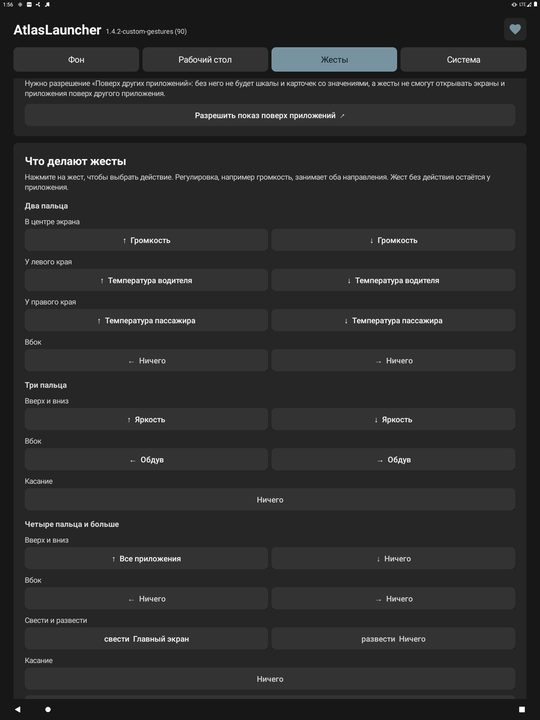
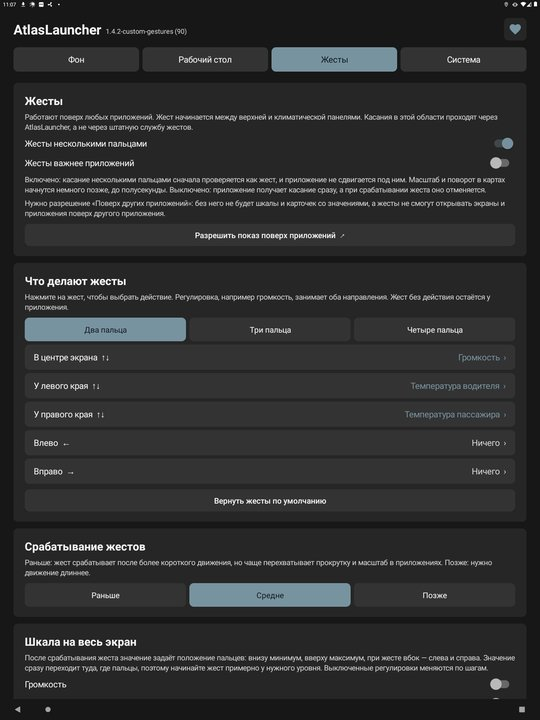
Show gesture settings by finger count as compact rows
A segmented switch picks two, three or four fingers and only their gestures are listed, one row per gesture with its action on the right. An adjustment holds both directions in a single row; one-off actions get a row per direction.

diff --git a/app/src/main/java/com/mmwtl/atlaslauncher/SettingsActivity.java b/app/src/main/java/com/mmwtl/atlaslauncher/SettingsActivity.java
@@ -107,6 +107,8 @@ public final class SettingsActivity extends ScaledActivity {
     private boolean editNight;
     private LinearLayout redirectState;
     private LinearLayout gestureRows;
+    // Index of the finger count shown in the gesture table: two, three, four.
+    private int gestureFingers;
     private Runnable connectivityChanged;
     /** The clock, volume or Wi-Fi/Bluetooth widget whose page is open. */
     private int widgetId;
@@ -423,45 +425,69 @@ public final class SettingsActivity extends ScaledActivity {
         return GestureMap.parse(prefs.getString(HomeActivity.GESTURES_MAP, null));
     }
 
-    /** Every gesture by finger count, as rows of one or two buttons with the current action. */
+    /** The gestures of the chosen finger count, a row each; an adjustment holds both directions in one row. */
     private void showGestureRows() {
         gestureRows.removeAllViews();
         GestureMap map = gestureMap();
-        gestureRows.addView(label("Два пальца"));
-        gestureRow(map, "В центре экрана", "↑", GestureMap.Gesture.TWO_CENTER_UP, "↓", GestureMap.Gesture.TWO_CENTER_DOWN);
-        gestureRow(map, "У левого края", "↑", GestureMap.Gesture.TWO_LEFT_UP, "↓", GestureMap.Gesture.TWO_LEFT_DOWN);
-        gestureRow(map, "У правого края", "↑", GestureMap.Gesture.TWO_RIGHT_UP, "↓", GestureMap.Gesture.TWO_RIGHT_DOWN);
-        gestureRow(map, "Вбок", "←", GestureMap.Gesture.TWO_SWIPE_LEFT, "→", GestureMap.Gesture.TWO_SWIPE_RIGHT);
-        gestureRows.addView(label("Три пальца"));
-        gestureRow(map, "Вверх и вниз", "↑", GestureMap.Gesture.THREE_UP, "↓", GestureMap.Gesture.THREE_DOWN);
-        gestureRow(map, "Вбок", "←", GestureMap.Gesture.THREE_LEFT, "→", GestureMap.Gesture.THREE_RIGHT);
-        gestureRow(map, "Касание", "", GestureMap.Gesture.THREE_TAP, null, null);
-        gestureRows.addView(label("Четыре пальца и больше"));
-        gestureRow(map, "Вверх и вниз", "↑", GestureMap.Gesture.FOUR_UP, "↓", GestureMap.Gesture.FOUR_DOWN);
-        gestureRow(map, "Вбок", "←", GestureMap.Gesture.FOUR_LEFT, "→", GestureMap.Gesture.FOUR_RIGHT);
-        gestureRow(map, "Свести и развести", "свести", GestureMap.Gesture.FOUR_PINCH, "развести", GestureMap.Gesture.FOUR_SPREAD);
-        gestureRow(map, "Касание", "", GestureMap.Gesture.FOUR_TAP, null, null);
+        choice(gestureRows, new String[]{"Два пальца", "Три пальца", "Четыре пальца"}, gestureFingers, index -> {
+            gestureFingers = index;
+            showGestureRows();
+        });
+        if (gestureFingers == 0) {
+            gesturePair(map, "В центре экрана  ↑↓", "В центре экрана  ↑", GestureMap.Gesture.TWO_CENTER_UP,
+                    "В центре экрана  ↓", GestureMap.Gesture.TWO_CENTER_DOWN);
+            gesturePair(map, "У левого края  ↑↓", "У левого края  ↑", GestureMap.Gesture.TWO_LEFT_UP,
+                    "У левого края  ↓", GestureMap.Gesture.TWO_LEFT_DOWN);
+            gesturePair(map, "У правого края  ↑↓", "У правого края  ↑", GestureMap.Gesture.TWO_RIGHT_UP,
+                    "У правого края  ↓", GestureMap.Gesture.TWO_RIGHT_DOWN);
+            gesturePair(map, "Вбок  ←→", "Влево  ←", GestureMap.Gesture.TWO_SWIPE_LEFT,
+                    "Вправо  →", GestureMap.Gesture.TWO_SWIPE_RIGHT);
+        } else if (gestureFingers == 1) {
+            gesturePair(map, "Вверх и вниз  ↑↓", "Вверх  ↑", GestureMap.Gesture.THREE_UP,
+                    "Вниз  ↓", GestureMap.Gesture.THREE_DOWN);
+            gesturePair(map, "Вбок  ←→", "Влево  ←", GestureMap.Gesture.THREE_LEFT,
+                    "Вправо  →", GestureMap.Gesture.THREE_RIGHT);
+            gestureRow(map, "Касание", GestureMap.Gesture.THREE_TAP);
+        } else {
+            gesturePair(map, "Вверх и вниз  ↑↓", "Вверх  ↑", GestureMap.Gesture.FOUR_UP,
+                    "Вниз  ↓", GestureMap.Gesture.FOUR_DOWN);
+            gesturePair(map, "Вбок  ←→", "Влево  ←", GestureMap.Gesture.FOUR_LEFT,
+                    "Вправо  →", GestureMap.Gesture.FOUR_RIGHT);
+            gestureRow(map, "Свести", GestureMap.Gesture.FOUR_PINCH);
+            gestureRow(map, "Развести", GestureMap.Gesture.FOUR_SPREAD);
+            gestureRow(map, "Касание", GestureMap.Gesture.FOUR_TAP);
+        }
     }
 
-    private void gestureRow(GestureMap map, String title, String firstMark, GestureMap.Gesture first, String secondMark,
-            GestureMap.Gesture second) {
-        gestureRows.addView(Ui.text(this, title, 13, Ui.TEXT_SECONDARY), margin(10, -2));
+    /** Opposite directions: one row while an adjustment takes both, a row each otherwise. */
+    private void gesturePair(GestureMap map, String bothTitle, String firstTitle, GestureMap.Gesture first,
+            String secondTitle, GestureMap.Gesture second) {
+        String action = map.action(first);
+        if (GestureMap.kind(action) != null && action.equals(map.action(second))) {
+            gestureRow(map, bothTitle, first);
+        } else {
+            gestureRow(map, firstTitle, first);
+            gestureRow(map, secondTitle, second);
+        }
+    }
+
+    private void gestureRow(GestureMap map, String title, GestureMap.Gesture gesture) {
         LinearLayout row = new LinearLayout(this);
-        gestureButton(row, map, firstMark, first);
-        if (second != null) gestureButton(row, map, secondMark, second);
-        gestureRows.addView(row, margin(4, -2));
-    }
-
-    private void gestureButton(LinearLayout row, GestureMap map, String mark, GestureMap.Gesture gesture) {
-        String label = actionLabel(map.action(gesture));
-        Button button = Ui.button(this, mark.isEmpty() ? label : mark + "  " + label);
-        button.setSingleLine();
-        button.setEllipsize(TextUtils.TruncateAt.END);
-        button.setTextColor(map.bound(gesture) ? Ui.TEXT : Ui.TEXT_SECONDARY);
-        button.setOnClickListener(v -> chooseGestureAction(gesture));
-        LinearLayout.LayoutParams params = new LinearLayout.LayoutParams(0, -2, 1);
-        if (row.getChildCount() > 0) params.leftMargin = dp(6);
-        row.addView(button, params);
+        row.setGravity(Gravity.CENTER_VERTICAL);
+        row.setPadding(dp(16), dp(12), dp(16), dp(12));
+        row.setBackground(Ui.rounded(Ui.SURFACE_RAISED, dp(8)));
+        row.setOnClickListener(v -> chooseGestureAction(gesture));
+        row.addView(Ui.text(this, title, 15, Ui.TEXT), new LinearLayout.LayoutParams(0, -2, 1));
+        TextView value = Ui.text(this, actionLabel(map.action(gesture)) + "  ›", 15,
+                map.bound(gesture) ? Ui.ACCENT : Ui.TEXT_SECONDARY);
+        value.setSingleLine();
+        value.setEllipsize(TextUtils.TruncateAt.END);
+        // A long app name must not squeeze out the gesture.
+        value.setMaxWidth(dp(280));
+        LinearLayout.LayoutParams params = new LinearLayout.LayoutParams(-2, -2);
+        params.leftMargin = dp(12);
+        row.addView(value, params);
+        gestureRows.addView(row, margin(6, -2));
     }
 
     private String actionLabel(String action) {

diff --git a/docs/guide/gestures.md b/docs/guide/gestures.md
@@ -22,7 +22,7 @@ AtlasLauncher распознаёт жесты двумя, тремя и четы
 
 ![Настройка жестов](../images/gestures/settings-map.jpg)
 
-На вкладке «Жесты» в карточке «Что делают жесты» перечислены все жесты. Нажмите на жест и выберите действие; «Вернуть жесты по умолчанию» отменяет все изменения.
+На вкладке «Жесты» в карточке «Что делают жесты» выберите число пальцев: ниже появятся его жесты, справа от каждого — действие. Регулировка занимает одну строку на оба направления (↑↓ или ←→), а разовые действия — по строке на направление. Нажмите на жест и выберите действие; «Вернуть жесты по умолчанию» отменяет все изменения.
 
 | Пальцы | Жесты | По умолчанию |
 |---|---|---|
